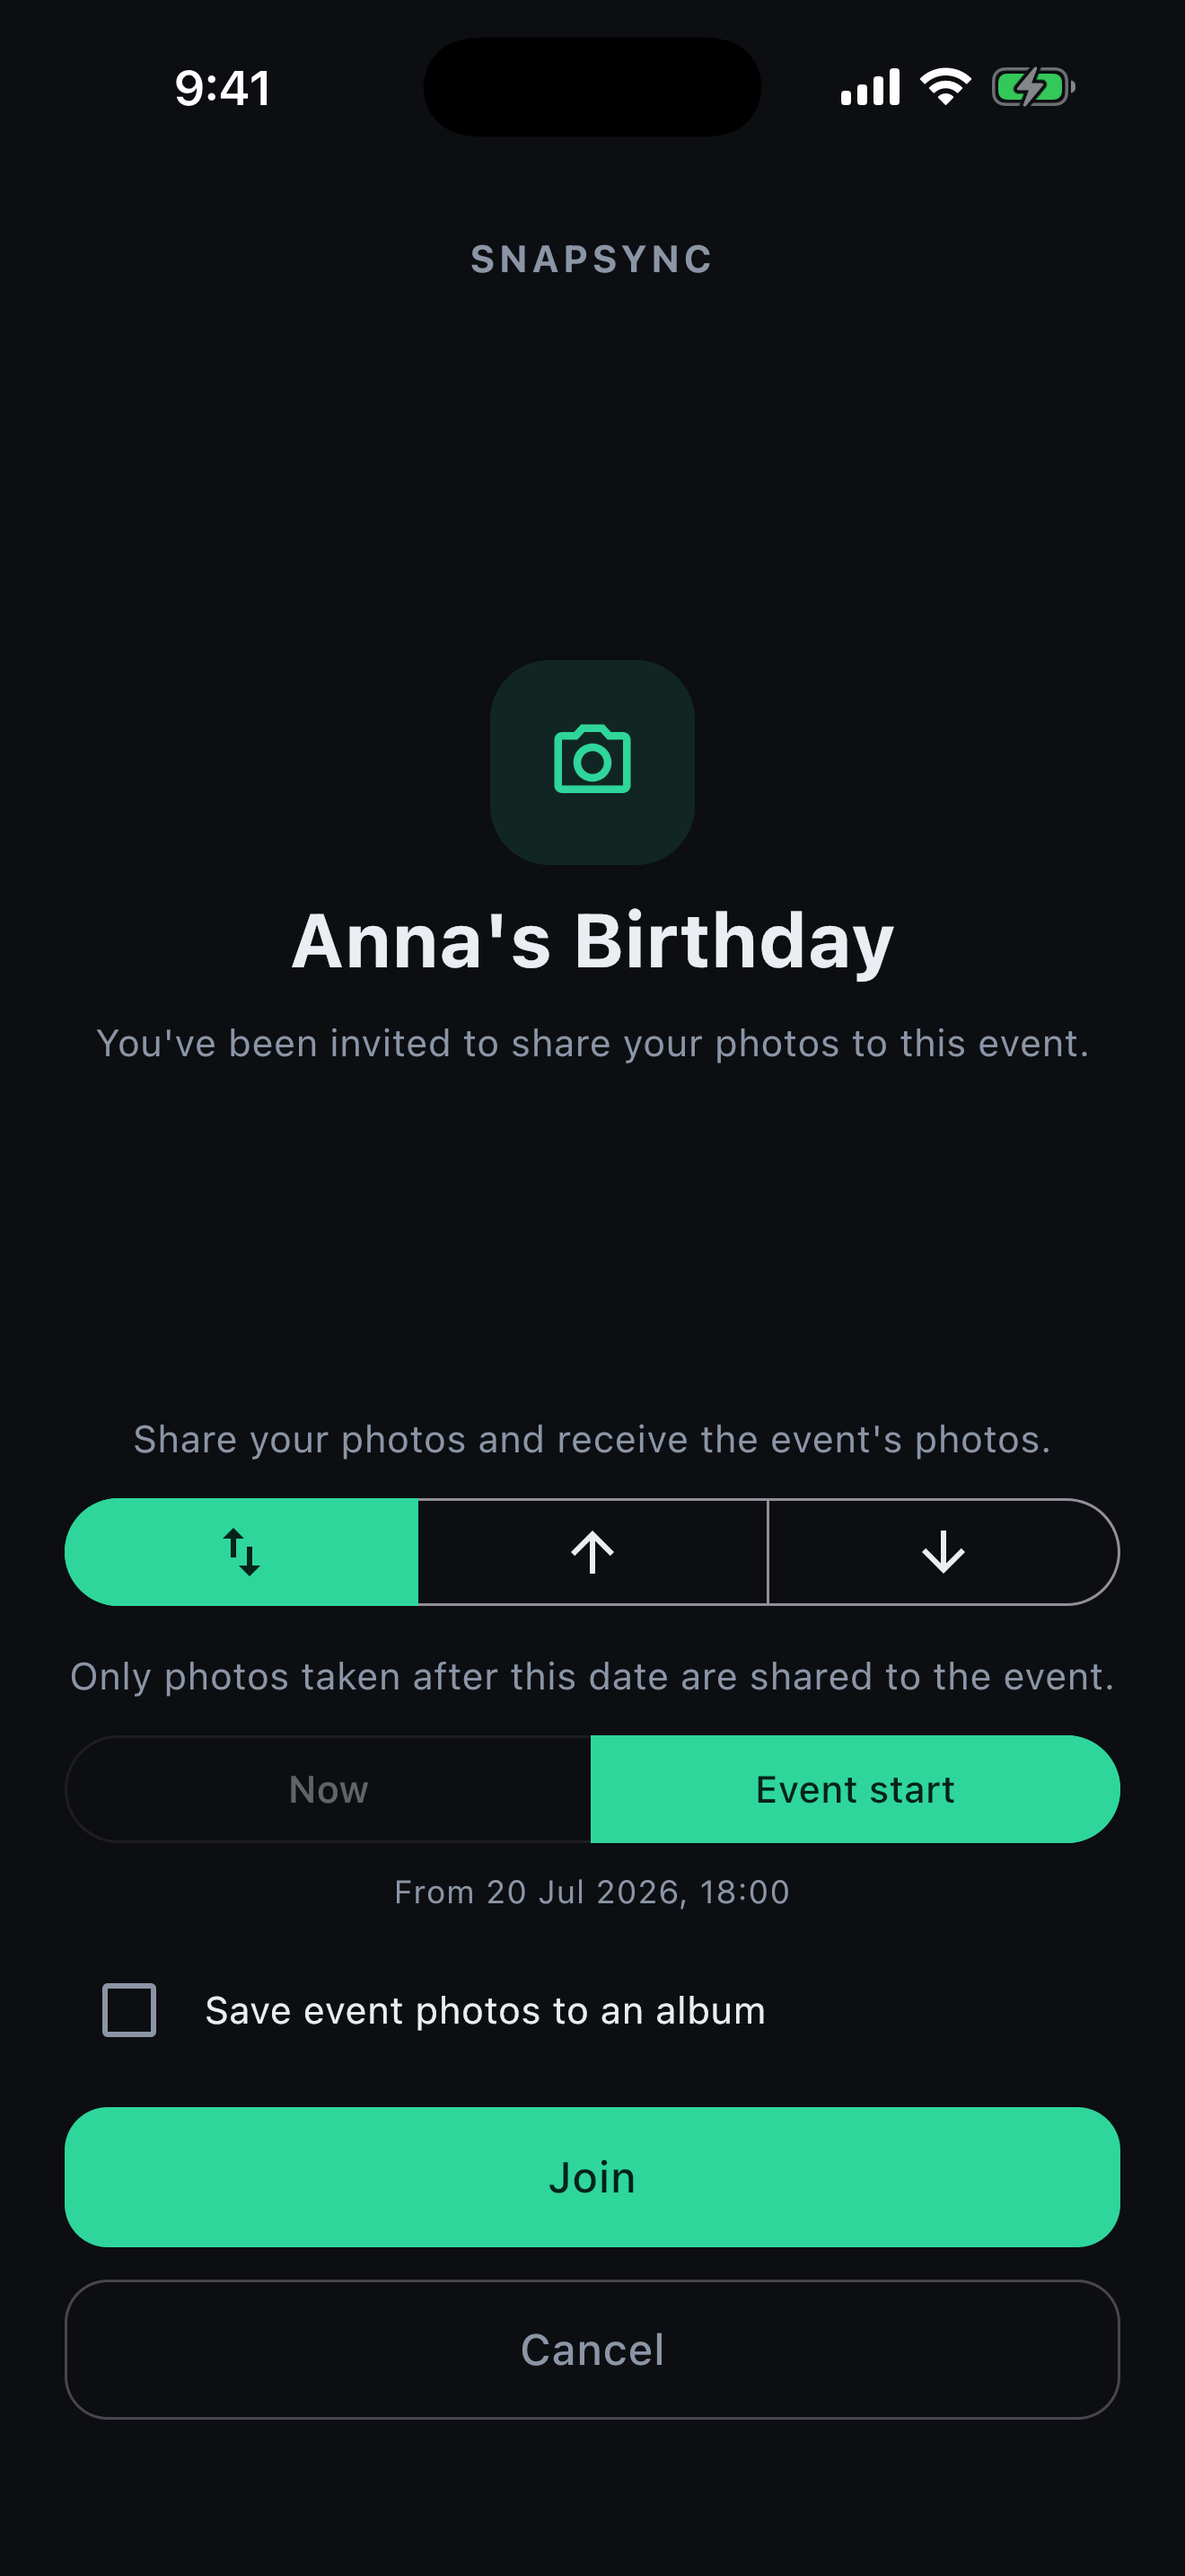
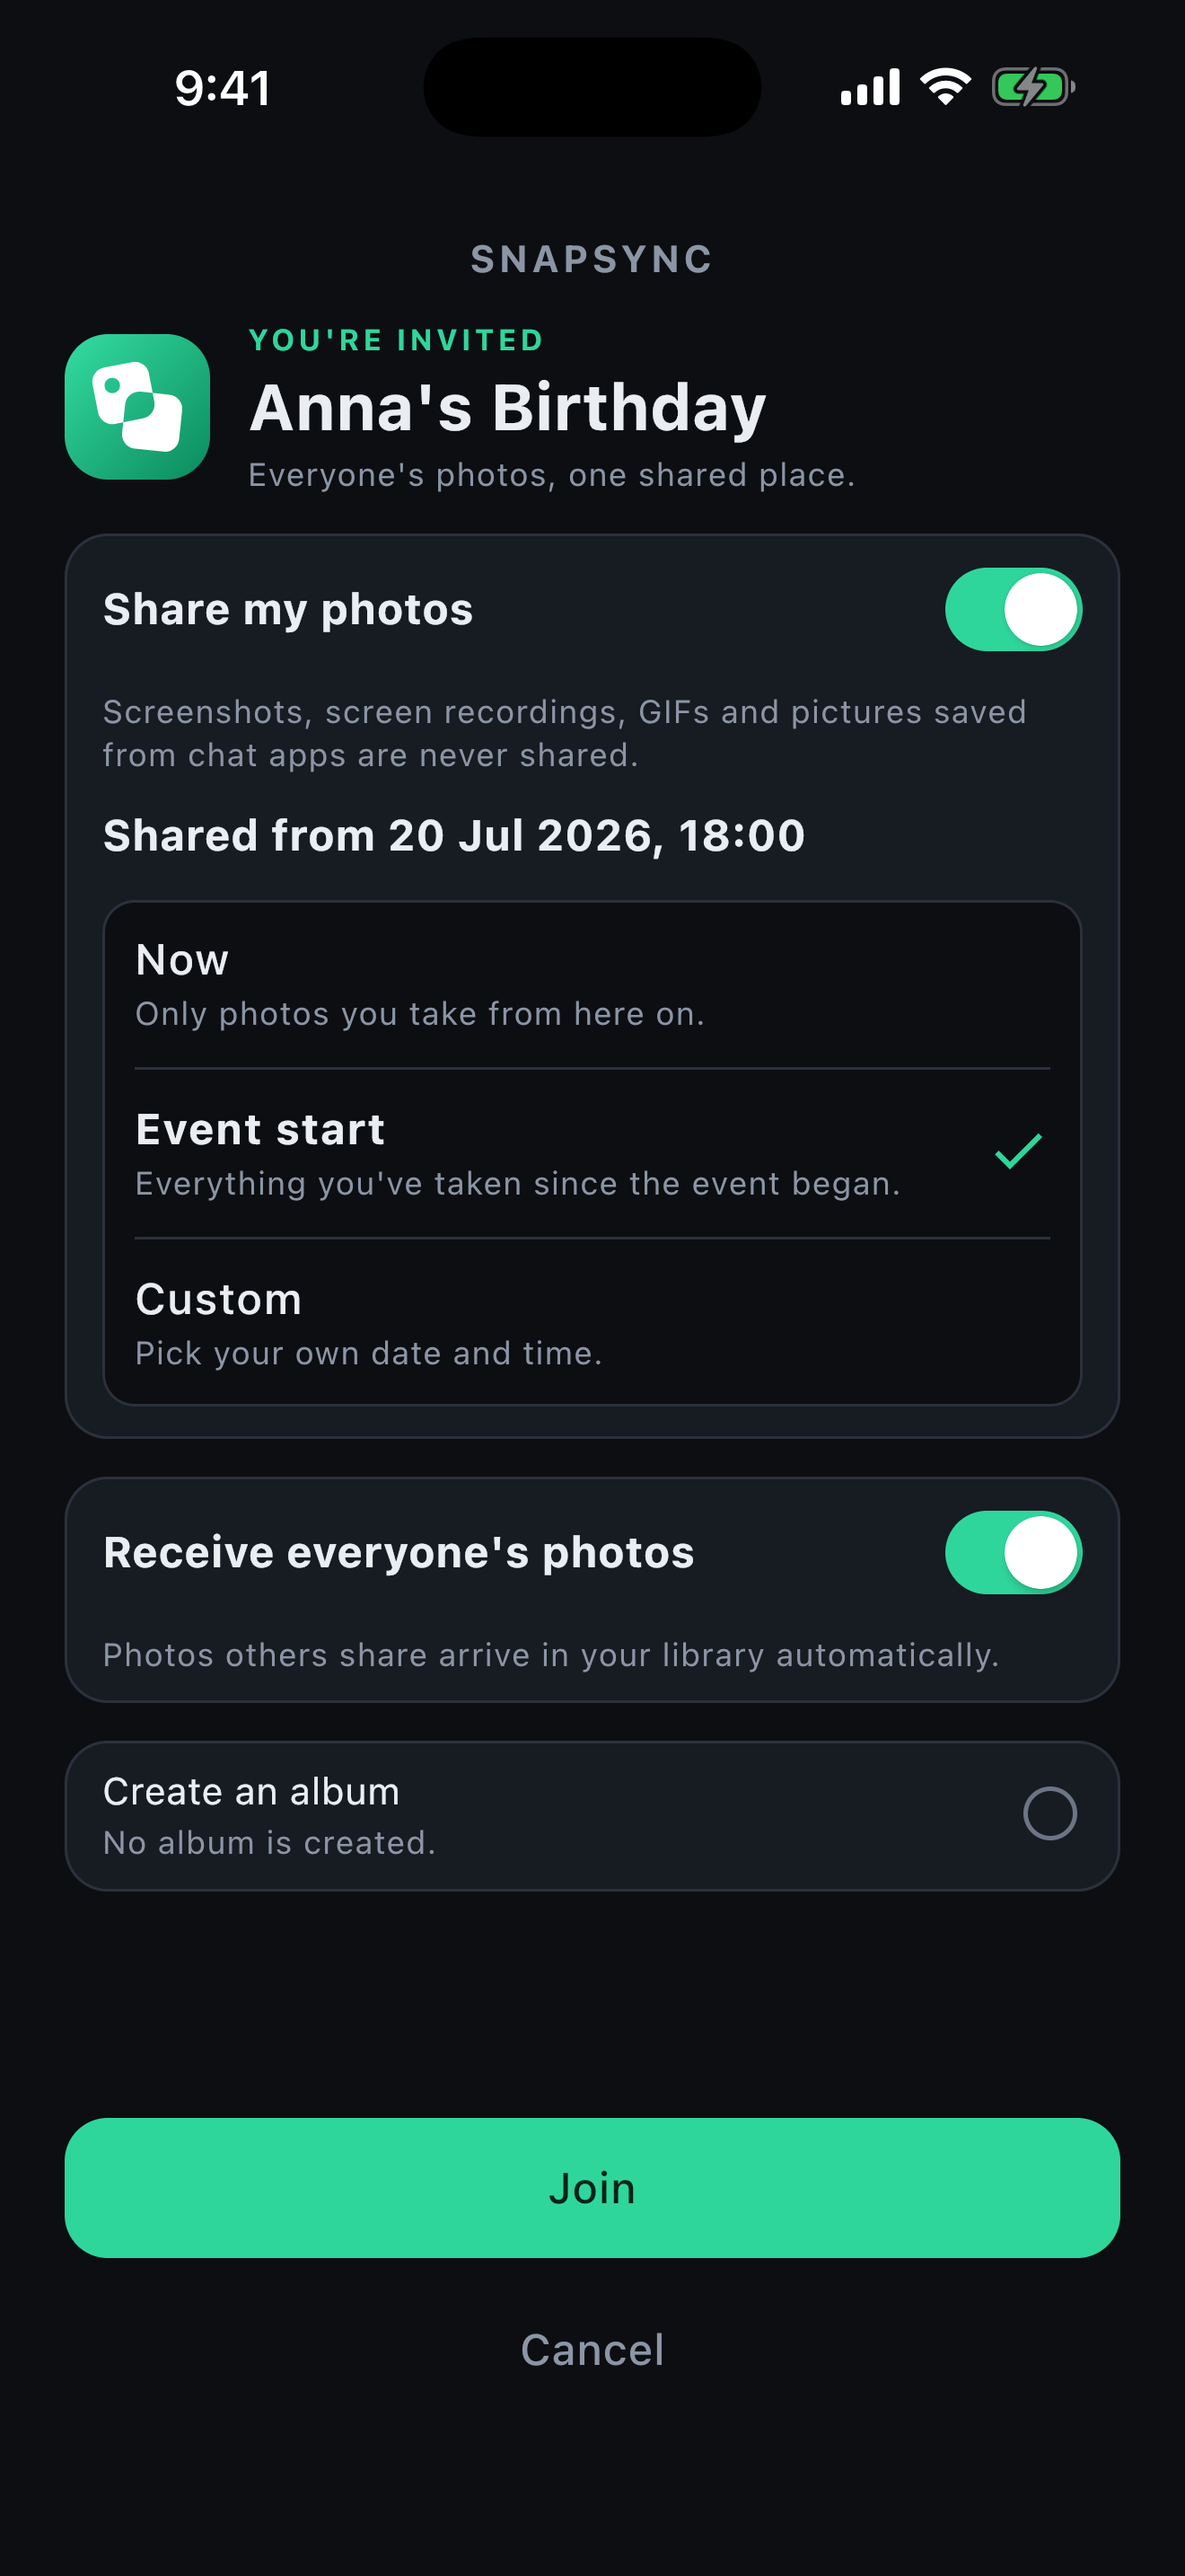
assets(screenshots): refresh the 6 marketing raws for the redesign — tasks §6
The 3 forge states × light/dark, captured by screenshots.yml on the design
branch (simctl, macos-26). All six eyeballed: no stray system banners, clean
status bars, redesigned UI in both themes, QR stays white-on-dark. Drives the
App Store listing composite and the landing-page WebP. Also closes §5.3's
dark-mode contrast eyeball (simctl captures both appearances).

Claude-Session: https://claude.ai/code/session_01V2RPFeXr7Bo38fwED6Ze3z

diff --git a/openspec/changes/redesign-event-ui/tasks.md b/openspec/changes/redesign-event-ui/tasks.md
@@ -60,12 +60,12 @@ what the PoC already carries; unchecked are the finishing work.
       (SE2/iOS 26.5, forge `joining` state = the real StatusScreen); interactive finger-toggling is
       WebDriverAgent-gated (`developer wda`), not run
 - [x] 5.2 Create surface: host hero, stated-consequence start card, error banner path
-- [~] 5.3 Light/dark contrast eyeball — light verified on device; dark verified from the §6 raws (simctl
+- [x] 5.3 Light/dark contrast eyeball — light verified on device; dark verified from the §6 raws (simctl
       captures both appearances); measured-AA corrections + recessed wells + pinned off-switch confirmed
 
 ## 6. Marketing screenshots
 
-- [ ] 6.1 Refresh `screenshots/*.png` (6 raws, `create`/`joining`/`in_sync` × light/dark) via
+- [x] 6.1 Refresh `screenshots/*.png` (6 raws, `create`/`joining`/`in_sync` × light/dark) via
       `screenshots.yml`, eyeball, and commit (drives the App Store listing + landing WebP)
 
 ## 7. OpenSpec close-out (later, not this change)
